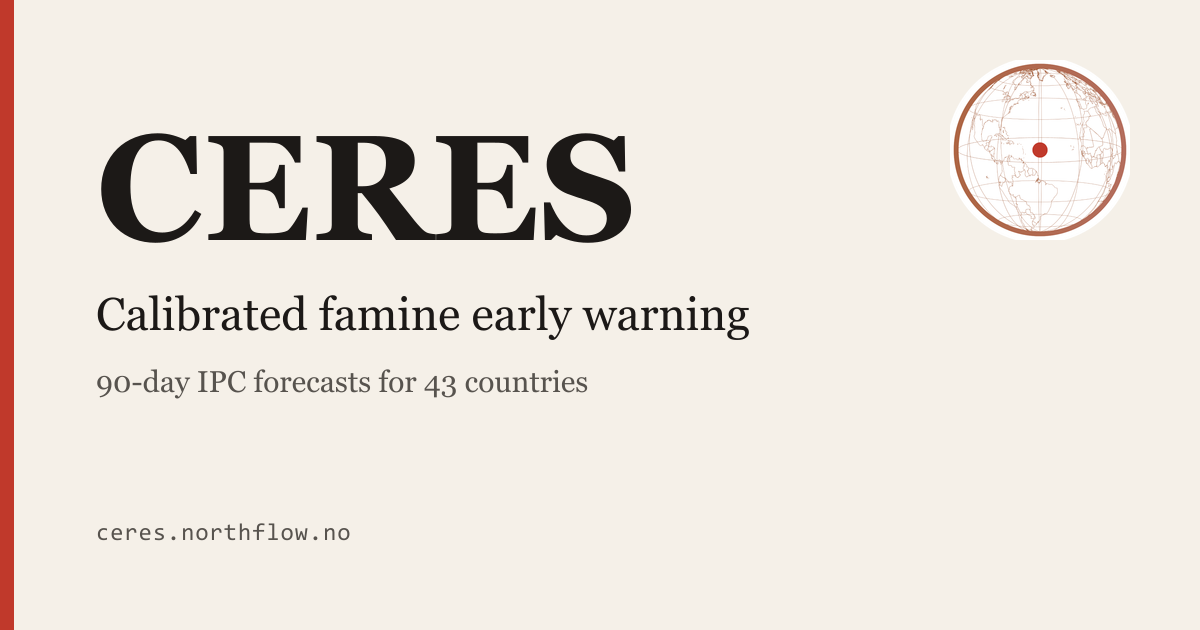
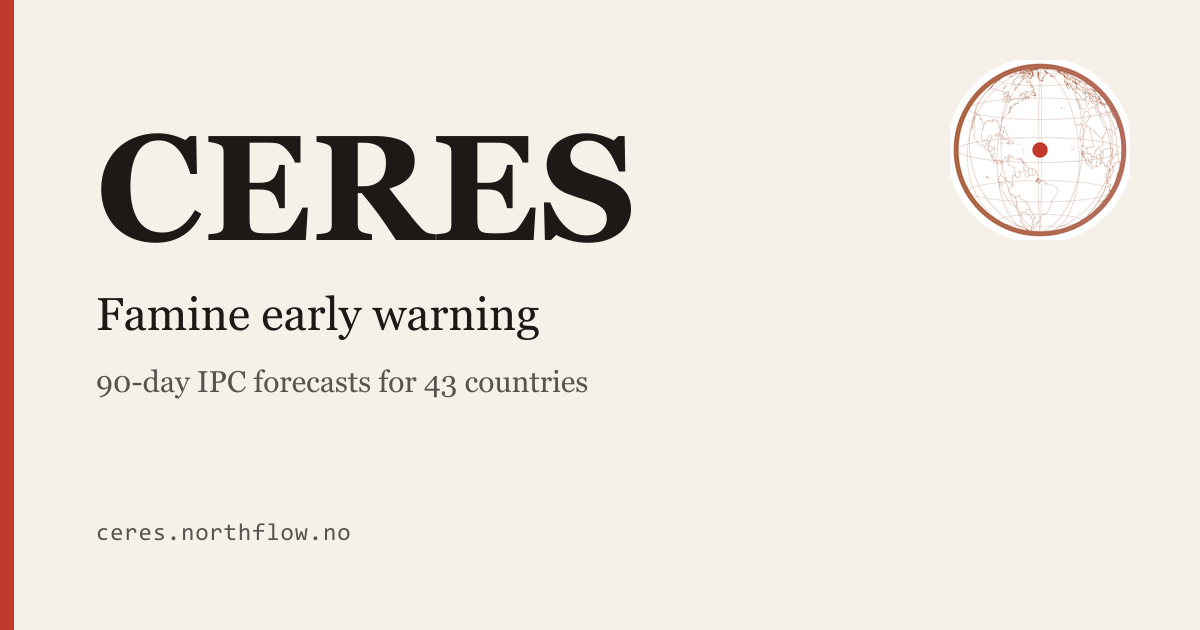
Describe the FEWS NET proxy, the expert priors and published runs

Changed region(s): [[0.0617, 0.4524, 0.6475, 0.5429]]

diff --git a/src/app/methodology/page.tsx b/src/app/methodology/page.tsx
@@ -23,7 +23,7 @@ const PIPELINE_STEPS = [
   { n: "3", title: "HGE: Hypothesis Generation Engine", desc: "Elevated signals are clustered into ranked driver hypotheses. Each hypothesis identifies a primary causal mechanism (e.g. conflict-driven market failure), supporting evidence records, and a confidence weight. Up to three hypotheses are generated per region per run." },
   { n: "4", title: "Probabilistic Forecast",    desc: "A logistic regression model converts composite stress scores into P(IPC Phase 3+) at a 90-day horizon. Input-perturbation sensitivity intervals are generated by resampling input signals, producing 90% sensitivity intervals. Both the point estimate and the full interval are reported for every prediction." },
   { n: "5", title: "Tier Classification",       desc: "Predictions are assigned to one of three alert tiers based on probability thresholds. Tier assignment triggers downstream alerting and determines the urgency framing in intelligence reports." },
-  { n: "6", title: "Grading & Calibration",     desc: "At T+90 days, each prediction is graded against the observed FEWS NET outcome for that region-month. Brier scores, sensitivity-interval (SI) coverage, and precision/recall metrics are updated continuously. Calibration failures trigger model review." },
+  { n: "6", title: "Grading & Calibration",     desc: "After T+90 days, each prediction is graded against the FEWS NET proxy described under Validation & Calibration. Brier scores, sensitivity-interval (SI) coverage, and precision/recall metrics are updated continuously. Calibration failures trigger model review." },
 ];
 
 const ARCHETYPES = [
@@ -122,7 +122,7 @@ export default function MethodologyPage() {
               <div style={{ fontFamily: "var(--mono)", fontSize: 9, letterSpacing: "0.15em", textTransform: "uppercase", color: "var(--crisis)", marginBottom: 6 }}>Operational Scope</div>
               <p style={{ fontSize: 13, color: "var(--ink-mid)", margin: 0 }}>CERES predictions are research outputs intended to augment, not replace, field-based IPC assessments and expert humanitarian judgement. All forecasts carry explicit uncertainty quantification and should be interpreted alongside ground-truth verification.</p>
             </div>
-            <p style={s}>The system ingests public data streams covering rainfall (NASA POWER), vegetation (MODIS NDVI), conflict (UCDP GED), acute food insecurity phase (IPC and Cadre Harmonisé, via HDX HAPI), and market prices (WFP, via HDX HAPI). FEWS NET is not a model input: its observed classifications are used to grade the forecasts. These are synthesised by the <strong style={{ color: "var(--ink)" }}>Hypothesis Generation Engine (HGE)</strong> into ranked driver hypotheses, which feed a calibrated logistic model producing probabilistic risk scores at national level across 43 high-risk countries.</p>
+            <p style={s}>The system ingests public data streams covering rainfall (NASA POWER), vegetation (MODIS NDVI), conflict (UCDP GED), acute food insecurity phase (IPC and Cadre Harmonisé, via HDX HAPI), and market prices (WFP, via HDX HAPI). FEWS NET is not a model input: its observed classifications are used to grade the forecasts. These are synthesised by the <strong style={{ color: "var(--ink)" }}>Hypothesis Generation Engine (HGE)</strong> into ranked driver hypotheses, which feed a logistic model producing probabilistic risk scores at national level across 43 high-risk countries.</p>
           </section>
 
           <section id="pipeline" style={{ marginBottom: 64, paddingBottom: 64, borderBottom: "1px solid var(--border-light)", scrollMarginTop: 80 }}>
@@ -152,7 +152,7 @@ export default function MethodologyPage() {
             <p style={s}>Each convergence event is classified into one of four primary causal archetypes:</p>
             <div className="table-scroll"><table style={{ width: "100%", borderCollapse: "collapse", margin: "24px 0", fontSize: 13, minWidth: 420 }}>
               <thead>
-                <tr>{["Archetype","Primary Signals","Typical Regions"].map(h=><th key={h} style={{ fontFamily: "var(--mono)", fontSize: 9, letterSpacing: "0.12em", textTransform: "uppercase", color: "var(--parchment)", background: "var(--ink)", padding: "10px 14px", textAlign: "left", fontWeight: 500 }}>{h}</th>)}</tr>
+                <tr>{["Archetype","Primary Signals","Typical Regions"].map(h=><th scope="col" key={h} style={{ fontFamily: "var(--mono)", fontSize: 9, letterSpacing: "0.12em", textTransform: "uppercase", color: "var(--parchment)", background: "var(--ink)", padding: "10px 14px", textAlign: "left", fontWeight: 500 }}>{h}</th>)}</tr>
               </thead>
               <tbody>
                 {ARCHETYPES.map(({ type, signals, regions }, i) => (
@@ -175,13 +175,13 @@ export default function MethodologyPage() {
           <section id="model" style={{ marginBottom: 64, paddingBottom: 64, borderBottom: "1px solid var(--border-light)", scrollMarginTop: 80 }}>
             <div style={{ fontFamily: "var(--mono)", fontSize: 9, letterSpacing: "0.2em", textTransform: "uppercase", color: "var(--earth)", marginBottom: 10 }}>§ 4 · Probabilistic Model</div>
             <h2 style={{ fontFamily: "var(--display)", fontSize: 28, fontWeight: 700, marginBottom: 20, lineHeight: 1.2 }}>Logistic Model & Sensitivity Intervals</h2>
-            <p style={s}>CERES uses a calibrated logistic regression model to convert composite stress scores into IPC Phase 3+ exceedance probabilities at a 90-day horizon. The choice of logistic regression is deliberate: it is well-understood, natively probabilistic, and produces outputs that are straightforwardly interpretable by non-technical reviewers.</p>
+            <p style={s}>CERES uses a logistic regression model to convert composite stress scores into IPC Phase 3+ exceedance probabilities at a 90-day horizon. The choice of logistic regression is deliberate: it is well-understood, natively probabilistic, and produces outputs that are straightforwardly interpretable by non-technical reviewers.</p>
             <p style={s}>The model coefficients were fit on a smaller Horn-of-Africa and Arabian-Peninsula set, initialised against 87 IPC transition records across 31 countries (2011-2023), and are deployed across 43 high-risk countries; forward performance on the full deployment set is established prospectively, not assumed from the initialisation fit.</p>
             <div className="methodology-formula" style={{ background: "var(--parchment-dark)", border: "1px solid var(--border)", borderLeft: "3px solid var(--earth)", padding: "20px 24px", margin: "24px 0", fontFamily: "var(--mono)", fontSize: 13, color: "var(--ink)", lineHeight: 2, overflowX: "auto" }}>
               <div style={{ fontSize: 9, letterSpacing: "0.18em", textTransform: "uppercase", color: "var(--ink-light)", marginBottom: 8 }}>Core Model</div>
               P(IPC 3+ | X, t+90) = σ(β₀ + β₁·CSS + β₂·IPC + β₃·conflict + β₄·drought + β₅·food_access + β₆·price + β₇·convergence + β₈·n_independent)<br />
               <br />
-              <span style={{ color: "var(--ink-light)" }}>where σ is the logistic function, CSS is the composite stress score,<br />and coefficients β are expert-informed priors initialised from 87 country-season IPC transition records. Coefficient values are documented in Appendix C of the preprint.</span>
+              <span style={{ color: "var(--ink-light)" }}>where σ is the logistic function, CSS is the composite stress score,<br />and coefficients β are expert-informed priors, initialised from 87 country-season IPC transition records. The live forecasts use these priors. Coefficient values are documented in Appendix C of the preprint.</span>
             </div>
             <h3 style={{ fontFamily: "var(--display)", fontSize: 20, fontWeight: 600, margin: "32px 0 12px" }}>Sensitivity Intervals</h3>
             <p style={s}>Point estimates alone are insufficient for humanitarian decision-making. CERES generates 90% sensitivity intervals via input-perturbation resampling: input signals are resampled within their stated uncertainty bounds across n=2,000 replications, and the resulting distribution of predictions forms the interval. This captures data variability and model sensitivity to input uncertainty.</p>
@@ -192,7 +192,7 @@ export default function MethodologyPage() {
             </div>
             <div style={{ borderLeft: "3px solid var(--warning)", background: "#FFFBEB", border: "1px solid rgba(217,119,6,0.2)", borderLeftWidth: 3, borderLeftColor: "var(--warning)", padding: "16px 20px", margin: "32px 0 0" }}>
               <div style={{ fontFamily: "var(--mono)", fontSize: 9, letterSpacing: "0.15em", textTransform: "uppercase", color: "var(--warning)", marginBottom: 8 }}>Coefficient Update, 11 March 2026</div>
-              <p style={{ fontSize: 13, color: "var(--ink-mid)", margin: 0, lineHeight: 1.75 }}>The coefficients from arXiv v1 were recalibrated against the first weeks of live data: intercept −4.50, composite_stress β 3.20, convergence_score β 1.40 and n_independent β 0.20. The recalibrated model separates countries across the full CSS range (P = 0.036 at CSS = 0.15 through P = 0.994 at CSS = 0.85).</p>
+              <p style={{ fontSize: 13, color: "var(--ink-mid)", margin: 0, lineHeight: 1.75 }}>The coefficients from arXiv v1 were recalibrated against the first weeks of live data: intercept −4.50, composite_stress β 3.20, convergence_score β 1.40 and n_independent β 0.20.</p>
             </div>
           </section>
 
@@ -221,7 +221,7 @@ export default function MethodologyPage() {
           <section id="calibration" style={{ marginBottom: 64, paddingBottom: 64, borderBottom: "1px solid var(--border-light)", scrollMarginTop: 80 }}>
             <div style={{ fontFamily: "var(--mono)", fontSize: 9, letterSpacing: "0.2em", textTransform: "uppercase", color: "var(--earth)", marginBottom: 10 }}>§ 6 · Validation & Calibration</div>
             <h2 style={{ fontFamily: "var(--display)", fontSize: 28, fontWeight: 700, marginBottom: 20, lineHeight: 1.2 }}>Model Performance</h2>
-            <p style={s}>CERES is initialised against 87 IPC transition records spanning 31 countries between 2011 and 2023, against four prospective performance targets. Observed FEWS NET outcomes publish on a 2 to 4 month lag, so a prediction is graded well after its T+90 horizon passes. The figures below are read live from the verification ledger.</p>
+            <p style={s}>CERES is initialised against 87 IPC transition records spanning 31 countries between 2011 and 2023, and measured against the pre-registered targets on the Validation page. A prediction is graded after its T+90 horizon passes, once the data for the grading window is published. The published rule gives an IPC or Cadre Harmonisé classification precedence. No grade has come from one so far: every grade uses a FEWS NET proxy, which is the highest Current Situation phase FEWS NET reports for any area of the country within 30 days either side of the grading date. It is a national worst-area reading on the IPC phase scale, and it stands in for an IPC classification. The figures below are read live from the verification ledger.</p>
             <div style={{ margin: "24px 0" }}>
               <LiveAccuracyMetrics compact />
             </div>

diff --git a/src/app/about/page.tsx b/src/app/about/page.tsx
@@ -15,7 +15,7 @@ const ADAPTERS = [
 const STATS = [
   { num: "90d",      label: "Forecast Horizon",        note: "P(IPC Phase 3+) within 90 days of issue" },
   { num: "87",       label: "Calibration Records",      note: "IPC transition records, 2011-2023, 31 countries" },
-  { num: "T+90",     label: "Grading Horizon",         note: "Graded against observed FEWS NET outcomes; live figures on the Validation page" },
+  { num: "T+90",     label: "Grading Horizon",         note: "Graded against the FEWS NET proxy; live figures on the Validation page" },
   { num: "Open",     label: "Model Inputs",              note: "NASA POWER · MODIS NDVI · UCDP GED · IPC / CH · WFP prices" },
 ];
 
@@ -54,7 +54,7 @@ export default function AboutPage() {
       <div className="about-mission-wrap" style={{ background: "var(--ink)", color: "var(--parchment)", padding: "60px 40px" }}>
         <div className="about-missions" style={{ maxWidth: 1100, margin: "0 auto", display: "grid", gridTemplateColumns: "1fr 1fr", gap: 80, alignItems: "center", boxSizing: "border-box" }}>
           <div>
-            <div style={{ fontFamily: "var(--mono)", fontSize: 9, letterSpacing: "0.2em", textTransform: "uppercase", color: "#78716C", marginBottom: 16 }}>Mission</div>
+            <div style={{ fontFamily: "var(--mono)", fontSize: 9, letterSpacing: "0.2em", textTransform: "uppercase", color: "#A8A29E", marginBottom: 16 }}>Mission</div>
             <div style={{ fontFamily: "var(--display)", fontSize: 28, fontWeight: 400, fontStyle: "italic", lineHeight: 1.4, color: "var(--parchment)" }}>
               &ldquo;Give the humanitarian system the <strong style={{ fontStyle: "normal", fontWeight: 700, color: "var(--warning)" }}>lead time</strong> it needs to act before a food crisis becomes a famine.&rdquo;
             </div>
@@ -62,12 +62,12 @@ export default function AboutPage() {
           <div style={{ display: "flex", flexDirection: "column", gap: 20 }}>
             {[
               { title: "Open by design",            body: "The methodology is published. The code of this website is public. Every prediction is timestamped and graded against real-world outcomes. We built CERES to be examined: by scientists, by funders, by the people whose lives depend on getting this right." },
-              { title: "Calibrated, not overconfident", body: "CERES never gives you a single number and calls it certainty. Every forecast carries a 90% sensitivity interval, built from 2,000 input-perturbation replications. That is what a humanitarian programme officer can plan with." },
+              { title: "Uncertainty on every forecast", body: "CERES never gives you a single number and calls it certainty. Every forecast carries a 90% sensitivity interval, built from 2,000 input-perturbation replications. That is what a humanitarian programme officer can plan with." },
               { title: "Falsifiable",  body: "Every prediction CERES issues is publicly recorded before the outcome is known, and graded in the open at T+90." },
             ].map(({ title, body }) => (
               <div key={title} style={{ borderLeft: "2px solid #44403C", paddingLeft: 16 }}>
                 <div style={{ fontFamily: "var(--mono)", fontSize: 10, letterSpacing: "0.1em", textTransform: "uppercase", color: "#A8A29E", marginBottom: 4 }}>{title}</div>
-                <div style={{ fontSize: 14, color: "#78716C", lineHeight: 1.6 }}>{body}</div>
+                <div style={{ fontSize: 14, color: "#A8A29E", lineHeight: 1.6 }}>{body}</div>
               </div>
             ))}
           </div>
@@ -116,9 +116,9 @@ export default function AboutPage() {
           <div>
             <div style={{ fontFamily: "var(--mono)", fontSize: 9, letterSpacing: "0.2em", textTransform: "uppercase", color: "var(--earth)", marginBottom: 12 }}>Institutional Context</div>
             <h2 style={{ fontFamily: "var(--display)", fontSize: 28, fontWeight: 700, marginBottom: 16, lineHeight: 1.2 }}>Designed for Institutional Review</h2>
-            <p style={p}>Every design decision in CERES, from the calibrated sensitivity intervals to the publicly timestamped prediction ledger to the published limitations section, is made with institutional reviewers in mind.</p>
+            <p style={p}>Every design decision in CERES, from the sensitivity intervals to the publicly timestamped prediction ledger to the published limitations section, is made with institutional reviewers in mind.</p>
             <p style={p}>The system is designed to be reviewed by WFP technical staff, FAO analysts, EU ECHO programme officers, academic food security researchers, and independent funders.</p>
-            <p style={p}>The prediction archive starts on 9 March 2026. Predictions are timestamped and graded against observed FEWS NET outcomes at T+90 days. The model was initialised against 87 IPC transition records (2011-2023, 31 countries). Prospective forward validation is ongoing and publicly visible in the <a href="/validation" style={{ color: "var(--earth)", textDecoration: "none" }}>Validation Ledger</a>. The full methodology is published at <a href="https://arxiv.org/abs/2603.09425" target="_blank" rel="noopener noreferrer" style={{ color: "var(--earth)", textDecoration: "none" }}>arXiv:2603.09425</a>.</p>
+            <p style={p}>The prediction archive starts on 9 March 2026. Predictions are timestamped and graded against the FEWS NET proxy at T+90 days. The model was initialised against 87 IPC transition records (2011-2023, 31 countries). Prospective forward validation is ongoing and publicly visible in the <a href="/validation" style={{ color: "var(--earth)", textDecoration: "none" }}>Validation Ledger</a>. The full methodology is published at <a href="https://arxiv.org/abs/2603.09425" target="_blank" rel="noopener noreferrer" style={{ color: "var(--earth)", textDecoration: "none" }}>arXiv:2603.09425</a>.</p>
           </div>
         </div>
 

diff --git a/src/app/validation/layout.tsx b/src/app/validation/layout.tsx
@@ -3,7 +3,7 @@ import type { Metadata } from "next";
 export const metadata: Metadata = {
   title: "Validation · CERES Famine Early Warning",
   description:
-    "CERES prediction validation ledger. Live accuracy metrics, calibration charts, and retrospective grading of all timestamped forecasts against observed FEWS NET outcomes.",
+    "CERES prediction validation ledger. Live accuracy metrics, calibration charts, and retrospective grading of all timestamped forecasts against the FEWS NET proxy.",
   keywords: [
     "famine forecast validation", "Brier score", "calibration", "FEWS NET outcomes",
     "prediction accuracy", "food security forecasting", "CERES validation", "Northflow",
@@ -11,14 +11,14 @@ export const metadata: Metadata = {
   openGraph: {
     title: "CERES Validation Ledger · Prediction Accuracy & Calibration",
     description:
-      "Every CERES prediction is timestamped and graded against observed FEWS NET outcomes at T+90 days. Full calibration ledger published openly.",
+      "Every CERES prediction is timestamped and graded against the FEWS NET proxy at T+90 days. Full calibration ledger published openly.",
     url: "https://ceres.northflow.no/validation",
     type: "website",
   },
   twitter: {
     card: "summary_large_image",
     title: "CERES Validation · Prediction Accuracy",
-    description: "Timestamped famine forecasts graded against observed FEWS NET outcomes at T+90. Live Brier score, sensitivity-interval coverage and skill score against observed FEWS NET outcomes.",
+    description: "Timestamped famine forecasts graded against the FEWS NET proxy at T+90. Live Brier score, sensitivity-interval coverage and skill score against the FEWS NET proxy.",
   },
   alternates: { canonical: "https://ceres.northflow.no/validation" },
 };

diff --git a/src/app/layout.tsx b/src/app/layout.tsx
@@ -12,7 +12,7 @@ export const viewport: Viewport = {
 export const metadata: Metadata = {
   title: "CERES · Famine Early Warning · 43 Countries · Weekly IPC Forecasts",
   description:
-    "Calibrated 90-day probability forecasts of IPC Phase 3+, 4+, and Famine for 43 high-risk countries. Scheduled weekly, with sensitivity intervals and a ledger.",
+    "90-day probability forecasts of IPC Phase 3+, 4+, and Famine for 43 high-risk countries. Scheduled weekly, with sensitivity intervals and a ledger.",
   keywords: [
     "famine early warning",
     "food security forecast",
@@ -40,7 +40,7 @@ export const metadata: Metadata = {
   creator: "Northflow Technologies AS",
   publisher: "Northflow Technologies AS",
   openGraph: {
-    title: "CERES · Calibrated Famine Early Warning · 43 Countries",
+    title: "CERES · Famine Early Warning · 43 Countries",
     description:
       "Weekly 90-day IPC Phase 3+, 4+, and Famine probability forecasts for 43 countries. " +
       "Sensitivity intervals on every forecast, and a public verification ledger.",
@@ -53,13 +53,13 @@ export const metadata: Metadata = {
         url: "/og-image.png",
         width: 1200,
         height: 630,
-        alt: "CERES · Calibrated Famine Early Warning System · 43 Countries · Weekly IPC Forecasts",
+        alt: "CERES · Famine Early Warning · 43 Countries",
       },
     ],
   },
   twitter: {
     card: "summary_large_image",
-    title: "CERES · Calibrated Famine Early Warning · 43 Countries",
+    title: "CERES · Famine Early Warning · 43 Countries",
     description:
       "Weekly 90-day IPC Phase 3+, 4+, and Famine probability forecasts. " +
       "Sensitivity intervals and a public verification ledger. Open data under CC BY 4.0.",

diff --git a/src/app/data/page.tsx b/src/app/data/page.tsx
@@ -90,7 +90,7 @@ const PIPELINE_USE = [
   { signal: "UCDP GED conflict events",  weight: "Conflict intensity sub-score",    stage: "Stress scoring"       },
   { signal: "IPC / CH phase classification", weight: "Food security phase and food access sub-scores", stage: "Stress scoring" },
   { signal: "WFP market prices",        weight: "Market deviation sub-score",      stage: "Stress scoring"       },
-  { signal: "IPC or FEWS NET observed phase", weight: "Outcome each forecast is graded against", stage: "Grading (T+90d)" },
+  { signal: "FEWS NET proxy", weight: "Outcome each forecast is graded against", stage: "Grading (T+90d)" },
 ];
 
 export default function DataPage() {
@@ -184,7 +184,7 @@ export default function DataPage() {
           <div className="table-scroll"><table style={{ width: "100%", borderCollapse: "collapse", fontSize: 13, minWidth: 400 }}>
             <thead>
               <tr>
-                {["Signal", "Role in Pipeline", "Stage"].map(h => <th key={h} style={th}>{h}</th>)}
+                {["Signal", "Role in Pipeline", "Stage"].map(h => <th scope="col" key={h} style={th}>{h}</th>)}
               </tr>
             </thead>
             <tbody>
@@ -231,7 +231,7 @@ export default function DataPage() {
               {
                 label: "Grading Ledger",
                 sub: "Graded predictions with observed outcomes",
-                desc: "Every prediction graded at T+90, with the observed IPC phase, the grading source and its Brier contribution.",
+                desc: "Every prediction graded at T+90, with the proxy phase, the grading source and its Brier contribution.",
                 url: "https://ceres.northflow.no/ledger/graded.json",
                 tag: "JSON",
               },

diff --git a/src/app/about/layout.tsx b/src/app/about/layout.tsx
@@ -66,7 +66,7 @@ const faqJsonLd = {
       name: "What is CERES?",
       acceptedAnswer: {
         "@type": "Answer",
-        text: "CERES (Calibrated Early-warning and Risk Estimation System) is an automated, open famine early-warning system operated by Northflow Technologies AS. It issues calibrated 90-day probability forecasts of IPC Phase 3+, Phase 4+, and Famine conditions for 43 high-risk countries, scheduled weekly.",
+        text: "CERES (Calibrated Early-warning and Risk Estimation System) is an automated, open famine early-warning system operated by Northflow Technologies AS. It issues 90-day probability forecasts of IPC Phase 3+, Phase 4+, and Famine conditions for 43 high-risk countries, scheduled weekly.",
       },
     },
     {
@@ -98,7 +98,7 @@ const faqJsonLd = {
       name: "How is CERES validated?",
       acceptedAnswer: {
         "@type": "Answer",
-        text: "Every prediction is timestamped, publicly recorded, and graded against observed FEWS NET outcomes at the T+90 horizon. The model was initialised against 87 IPC transition records across 31 countries (2011-2023), with n=2,000 input-perturbation sensitivity intervals. The archive starts on 9 March 2026, and graded outcomes are published as the observed data arrives.",
+        text: "Every prediction is timestamped, publicly recorded, and graded against the FEWS NET proxy after the T+90 horizon. The model was initialised against 87 IPC transition records across 31 countries (2011-2023), with n=2,000 input-perturbation sensitivity intervals. The archive starts on 9 March 2026, and graded outcomes are published as the data arrives.",
       },
     },
     {

diff --git a/src/app/tracker/layout.tsx b/src/app/tracker/layout.tsx
@@ -4,7 +4,7 @@ export const metadata: Metadata = {
   title: "Track Record · CERES Famine Early Warning",
   description:
     "The complete public history of CERES famine predictions: weekly snapshots per region, " +
-    "confidence trends, and verified outcomes against observed FEWS NET data. Every run archived since launch.",
+    "confidence trends, and graded outcomes. Published runs since 9 March 2026.",
   keywords: [
     "famine forecast track record", "prediction history", "food security accuracy",
     "IPC Phase 3 verification", "humanitarian forecast", "CERES archive", "Brier score",
@@ -12,7 +12,7 @@ export const metadata: Metadata = {
   openGraph: {
     title: "CERES Track Record · Every Prediction, Every Outcome",
     description:
-      "Weekly archived famine forecasts for 43 countries, graded against observed FEWS NET outcomes. " +
+      "Weekly archived famine forecasts for 43 countries, graded against the FEWS NET proxy. " +
       "Full public history, no predictions removed, no cherry-picking.",
     url: "https://ceres.northflow.no/tracker",
     type: "website",
@@ -21,7 +21,7 @@ export const metadata: Metadata = {
   twitter: {
     card: "summary_large_image",
     title: "CERES Track Record · Every Prediction, Every Outcome",
-    description: "Weekly archived famine forecasts graded against observed FEWS NET outcomes. Full public history.",
+    description: "Weekly archived famine forecasts graded against the FEWS NET proxy. Full public history.",
     images: ["/og-image.png"],
   },
   alternates: { canonical: "https://ceres.northflow.no/tracker" },

diff --git a/src/app/changelog/page.tsx b/src/app/changelog/page.tsx
@@ -48,7 +48,7 @@ const CHANGELOG: ChangeEntry[] = [
     version: "v0.5",
     type: "model",
     title: "Coefficient recalibration",
-    body: "The IPC Phase 3+ coefficients from arXiv v1 were recalibrated against the first weeks of live data, so that the probabilities spread across the full range of country stress. New coefficients: intercept −4.50, composite_stress β 3.20, convergence_score β 1.40, n_independent β 0.20. The recalibrated model gives P = 0.036 to 0.994 across the monitored countries. The same coefficients apply to the Admin1, Admin2 and scenario models, and are documented in Appendix C of the preprint and on the Methodology page.",
+    body: "The IPC Phase 3+ coefficients from arXiv v1 were recalibrated against the first weeks of live data, so that the probabilities spread across the full range of country stress. New coefficients: intercept −4.50, composite_stress β 3.20, convergence_score β 1.40, n_independent β 0.20. The same coefficients apply to the Admin1, Admin2 and scenario models, and are documented in Appendix C of the preprint and on the Methodology page.",
     breaking: true,
   },
   {

diff --git a/src/app/terms/page.tsx b/src/app/terms/page.tsx
@@ -44,7 +44,7 @@ export default function TermsPage() {
 
         <h2 style={h2}>1. The Service</h2>
         <p style={p}>
-          CERES provides calibrated probabilistic forecasts of acute food insecurity (IPC Phase 3+). Headline forecasts are issued at national level across 43 high-risk countries, with sub-national (Admin1 and, where available, Admin2) breakdowns, and are updated weekly. The Service includes the public dashboard, the open data downloads, the public REST API, and supporting documentation.
+          CERES provides probabilistic forecasts of acute food insecurity (IPC Phase 3+). Headline forecasts are issued at national level across 43 high-risk countries, with sub-national (Admin1 and, where available, Admin2) breakdowns, and are updated weekly. The Service includes the public dashboard, the open data downloads, the public REST API, and supporting documentation.
         </p>
         <p style={p}>
           The Service is provided by Northflow Technologies AS, a Norwegian technology company. Norwegian law applies to these Terms.

diff --git a/src/app/methodology/layout.tsx b/src/app/methodology/layout.tsx
@@ -11,9 +11,9 @@ export const metadata: Metadata = {
     "HGE inference engine", "CERES", "Northflow",
   ],
   openGraph: {
-    title: "CERES Methodology · Calibrated Famine Forecasting",
+    title: "CERES Methodology · Famine Forecasting",
     description:
-      "Full technical specification of the CERES forecasting pipeline: public data inputs, composite stress scoring, calibrated logistic model, IPC tier classification.",
+      "Full technical specification of the CERES forecasting pipeline: public data inputs, composite stress scoring, logistic model, IPC tier classification.",
     url: "https://ceres.northflow.no/methodology",
     type: "article",
   },

diff --git a/src/app/data/layout.tsx b/src/app/data/layout.tsx
@@ -88,7 +88,7 @@ const datasetJsonLd = {
     "90% sensitivity interval",
   ],
   measurementTechnique:
-    "Calibrated logistic regression over public data streams (NASA POWER rainfall, MODIS NDVI, UCDP GED, IPC and Cadre Harmonisé classifications, WFP market prices) with input-perturbation sensitivity intervals (n=2,000 draws per prediction).",
+    "Logistic regression over public data streams (NASA POWER rainfall, MODIS NDVI, UCDP GED, IPC and Cadre Harmonisé classifications, WFP market prices) with input-perturbation sensitivity intervals (n=2,000 draws per prediction).",
   isBasedOn: "https://arxiv.org/abs/2603.09425",
   distribution: [
     {

diff --git a/src/app/cookies/page.tsx b/src/app/cookies/page.tsx
@@ -48,7 +48,7 @@ export default function CookiesPage() {
             <thead>
               <tr>
                 {["Cookie / Technology", "Type", "Purpose", "Duration", "Consent Required"].map(h => (
-                  <th key={h} style={th}>{h}</th>
+                  <th scope="col" key={h} style={th}>{h}</th>
                 ))}
               </tr>
             </thead>
